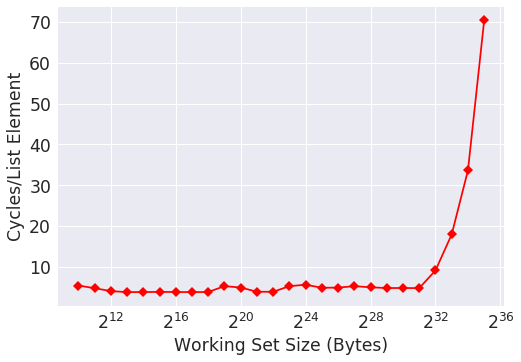
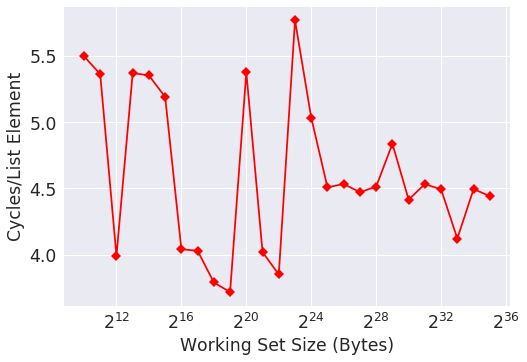
fixing a bug

diff --git a/seq_read.c b/seq_read.c
@@ -35,7 +35,8 @@ int main(int argc, char* argv[]) {
   ((struct l*) (array + (num_entries - 1)*struct_size))->n = NULL;
   int num_passes = (1L<<28) / num_entries;
   num_passes = num_passes > 0 ? num_passes : 1;
+  unsigned long long  num_ops = num_passes * num_entries;
   cycles = run((struct l*)array, num_passes);
-  printf("%llu,%llu,%lf\n", struct_size, wss, (double)cycles/(1 << 28));
+  printf("%llu,%llu,%lf\n", struct_size, wss, (double)cycles/num_ops);
   return 0;
 }

diff --git a/seq_read.md b/seq_read.md
@@ -6,36 +6,6 @@ This is what the author has:
 
 The CPU of my system is Intel(R) Xeon(R) CPU E5-1650 v4 @ 3.60GHz. Here are my results:
 
-```
-$ for wss in $(seq 10 35); do echo -n "wss=2^$wss: "; ./seq_read $wss 8; done
-wss=2^10: cycles = 1427254672, cycles/op = 5.316938
-wss=2^11: cycles = 1445534676, cycles/op = 5.385036
-wss=2^12: cycles = 1079326171, cycles/op = 4.020803
-wss=2^13: cycles = 1143862056, cycles/op = 4.261218
-wss=2^14: cycles = 1078447876, cycles/op = 4.017531
-wss=2^15: cycles = 1391490588, cycles/op = 5.183706
-wss=2^16: cycles = 1372847796, cycles/op = 5.114257
-wss=2^17: cycles = 1081650651, cycles/op = 4.029463
-wss=2^18: cycles = 1373049084, cycles/op = 5.115006
-wss=2^19: cycles = 1089789887, cycles/op = 4.059784
-wss=2^20: cycles = 1041103062, cycles/op = 3.878411
-wss=2^21: cycles = 1320265642, cycles/op = 4.918373
-wss=2^22: cycles = 1371190647, cycles/op = 5.108083
-wss=2^23: cycles = 1192917970, cycles/op = 4.443966
-wss=2^24: cycles = 1277411568, cycles/op = 4.758729
-wss=2^25: cycles = 1243764213, cycles/op = 4.633383
-wss=2^26: cycles = 1402770064, cycles/op = 5.225726
-wss=2^27: cycles = 1395645779, cycles/op = 5.199186
-wss=2^28: cycles = 1255137580, cycles/op = 4.675752
-wss=2^29: cycles = 1292864176, cycles/op = 4.816294
-wss=2^30: cycles = 1153548993, cycles/op = 4.297305
-wss=2^31: cycles = 1133023986, cycles/op = 4.220843
-wss=2^32: cycles = 2270512950, cycles/op = 8.458320
-wss=2^33: cycles = 4540201923, cycles/op = 16.913570
-wss=2^34: cycles = 9045633303, cycles/op = 33.697610
-wss=2^35: cycles = 18054295443, cycles/op = 67.257492
-```
-
 ![my result](seq_read.png)
 
 Compared to the author, the cycles/op held constant for longer.
@@ -49,3 +19,15 @@ To compare multiple elem sizes, the author has
 I have
 
 ![my result](seq_read_multiple_elem_sizes.png)
+
+My CPU has the following cache sizes:
+
+- L1D: 32 KB per core
+- L2: 256 KB per core
+- L3: 15 MB
+
+We can clearly see a jump after 2^15, when the working set no longer fits in the L1D.
+
+The next jump in only visible for elem_size=256, at 2^18, when the working set no longer fits in the L2 cache.
+
+Then the jump happens between 2^23 and 2^24, when the working set no longer fits in the L3 cache.
